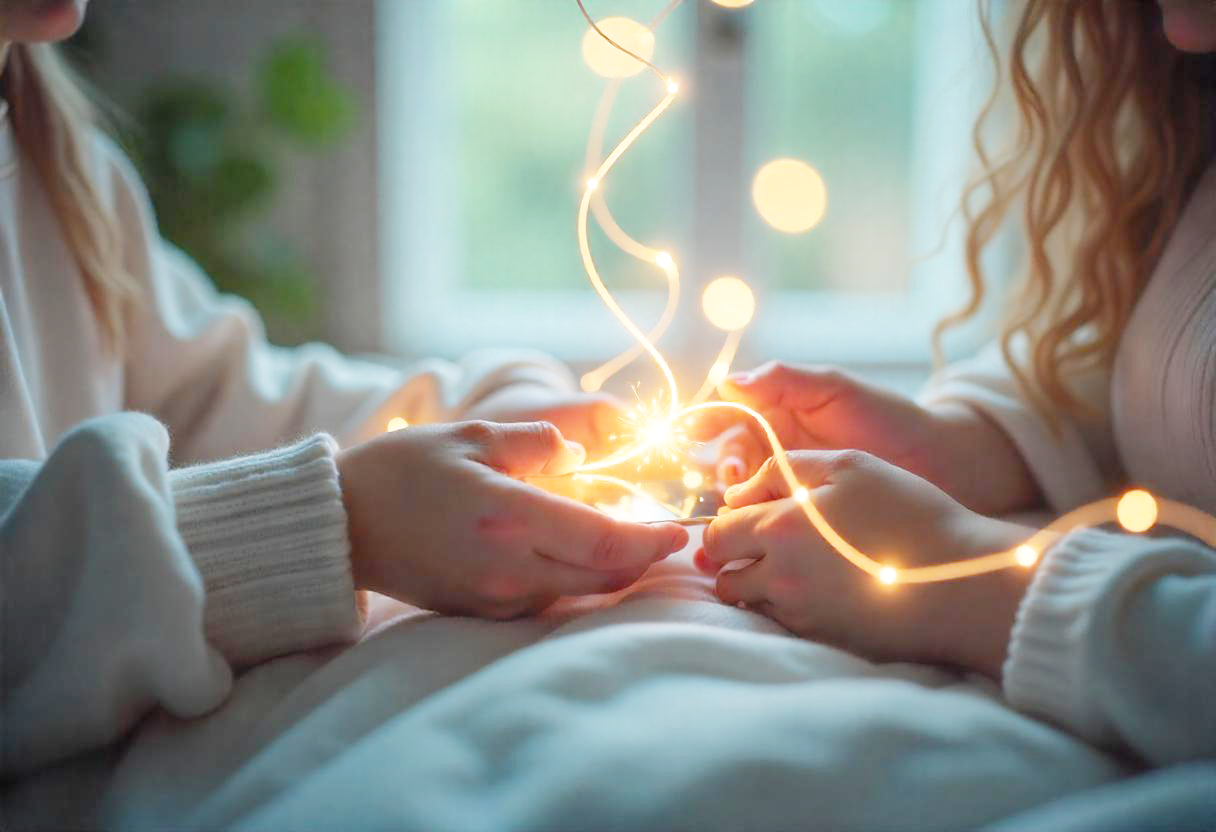
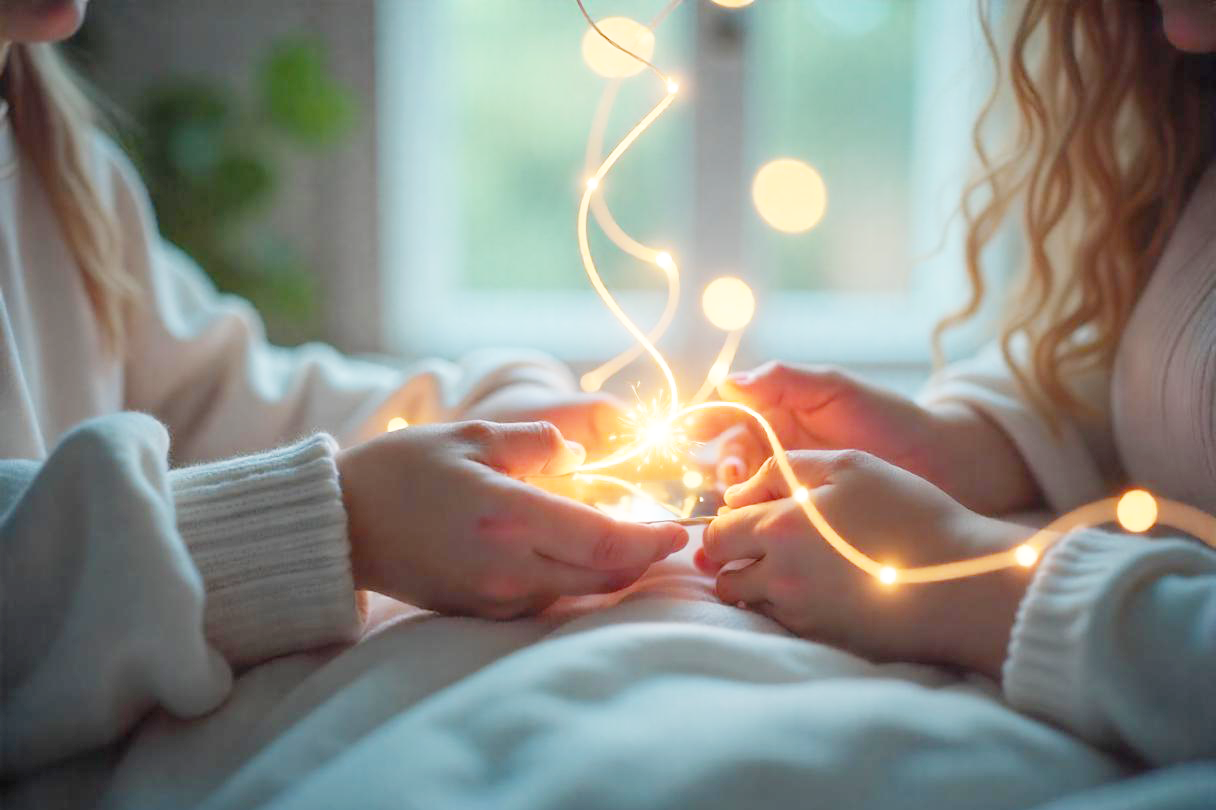
update northlight page's images

diff --git a/resources/views/northlight.blade.php b/resources/views/northlight.blade.php
@@ -144,110 +144,9 @@
 
     <div class="container">
         <div class="heading text-center top-padding">Innovation that Brings People Together</div>
-
-        {{--<div class="row d-none d-xl-flex">
-            <div class="col-4 col-md-2 p-0 d-flex justify-content-center">
-                <a class="highlight-wrap" data-target="display" href="/northlight#engineering-drawing-section">
-                    <img src="{{ asset('img/phone/icons/icons_size.svg') }}" alt="display" class="highlight-icon">
-                    <div class="highlight-text">5.45" LCD</div>
-                    <div class="highlight-text link">480 x 960</div>
-                </a>
-            </div>
-
-            <div class="col-4 col-md-2 p-0 d-flex justify-content-center">
-                <a class="highlight-wrap" data-target="camera" href="/northlight#engineering-drawing-section">
-                    <img src="{{ asset('img/phone/icons/icons_camera.svg') }}" alt="camera" class="highlight-icon">
-                    <div class="highlight-text">5MP Back</div>
-                    <div class="highlight-text link">2MP Front</div>
-                </a>
-            </div>
-
-            <div class="col-4 col-md-2 p-0 d-flex justify-content-center">
-                <a class="highlight-wrap" data-target="chip" href="/northlight#engineering-drawing-section">
-                    <img src="{{ asset('img/phone/icons/icons_memory.svg') }}" alt="chip" class="highlight-icon">
-                    <div class="highlight-text">Mediatek</div>
-                    <div class="highlight-text link">Helio A22</div>
-                </a>
-            </div>
-
-            <div class="col-4 col-md-2 p-0 d-flex justify-content-center">
-                <a class="highlight-wrap" data-target="sim-card" href="/northlight#engineering-drawing-section">
-                    <img src="{{ asset('img/phone/icons/icons_dualsim.svg') }}" alt="dual-sim" class="highlight-icon">
-                    <div class="highlight-text">Micro SIM</div>
-                    <div class="highlight-text link">& Nano SIM</div>
-                </a>
-            </div>
-
-            <div class="col-4 col-md-2 p-0 d-flex justify-content-center">
-                <a class="highlight-wrap" data-target="microSD" href="/northlight#engineering-drawing-section">
-                    <img src="{{ asset('img/phone/icons/icons_sd_card.svg') }}" alt="microSD Card" class="highlight-icon">
-                    <div class="highlight-text">microSD</div>
-                    <div class="highlight-text link">Up to 512GB</div>
-                </a>
-            </div>
-
-            <div class="col-4 col-md-2 p-0 d-flex justify-content-center">
-                <a class="highlight-wrap" data-target="battery" href="/northlight#engineering-drawing-section">
-                    <img src="{{ asset('img/phone/icons/icons_battery_swap.svg') }}" alt="battery" class="highlight-icon">
-                    <div class="highlight-text">Replaceable</div>
-                    <div class="highlight-text link">Battery</div>
-                </a>
-            </div>
-        </div>
-
-        <div class="row d-xl-none">
-            <div class="col-4 col-md-2 p-0 d-flex justify-content-center">
-                <a class="highlight-wrap" data-target="display-mobile" href="/northlight#engineering-drawing-section-mobile">
-                    <img src="{{ asset('img/phone/icons/icons_size.svg') }}" alt="display" class="highlight-icon">
-                    <div class="highlight-text">5.45" LCD</div>
-                    <div class="highlight-text link">480 x 960</div>
-                </a>
-            </div>
-
-            <div class="col-4 col-md-2 p-0 d-flex justify-content-center">
-                <a class="highlight-wrap" data-target="camera-mobile" href="/northlight#engineering-drawing-section-mobile">
-                    <img src="{{ asset('img/phone/icons/icons_camera.svg') }}" alt="camera" class="highlight-icon">
-                    <div class="highlight-text">5MP Back</div>
-                    <div class="highlight-text link">2MP Front</div>
-                </a>
-            </div>
-
-            <div class="col-4 col-md-2 p-0 d-flex justify-content-center">
-                <a class="highlight-wrap" data-target="chip-mobile" href="/northlight#engineering-drawing-section-mobile">
-                    <img src="{{ asset('img/phone/icons/icons_memory.svg') }}" alt="chip" class="highlight-icon">
-                    <div class="highlight-text">Mediatek</div>
-                    <div class="highlight-text link">Helio A22</div>
-                </a>
-            </div>
-
-            <div class="col-4 col-md-2 p-0 d-flex justify-content-center">
-                <a class="highlight-wrap" data-target="sim-card-mobile" href="/northlight#engineering-drawing-section-mobile">
-                    <img src="{{ asset('img/phone/icons/icons_dualsim.svg') }}" alt="dual-sim" class="highlight-icon">
-                    <div class="highlight-text">Micro SIM</div>
-                    <div class="highlight-text link">& Nano SIM</div>
-                </a>
-            </div>
-
-            <div class="col-4 col-md-2 p-0 d-flex justify-content-center">
-                <a class="highlight-wrap" data-target="microSD-mobile" href="/northlight#engineering-drawing-section-mobile">
-                    <img src="{{ asset('img/phone/icons/icons_sd_card.svg') }}" alt="microSD Card" class="highlight-icon">
-                    <div class="highlight-text">microSD</div>
-                    <div class="highlight-text link">Up to 512GB</div>
-                </a>
-            </div>
-
-            <div class="col-4 col-md-2 p-0 d-flex justify-content-center">
-                <a class="highlight-wrap" data-target="battery-mobile" href="/northlight#engineering-drawing-section-mobile">
-                    <img src="{{ asset('img/phone/icons/icons_battery_swap.svg') }}" alt="battery" class="highlight-icon">
-                    <div class="highlight-text">Replaceable</div>
-                    <div class="highlight-text link">Battery</div>
-                </a>
-            </div>
-        </div> --}}
-
         <div class="row top-padding bottom-padding-sm gx-lg-5 gy-lg-0 gy-4">
             <div class="col-lg-6 d-flex align-items-center">
-                <img src="{{ asset('img/phone/phone_photo_1.png') }}" alt="" class="rounded-img">
+                <img src="{{ asset('img/phone/phone_photo_1.jpg') }}" alt="" class="rounded-img">
             </div>
             <div class="col-lg-6 d-flex flex-column justify-content-center">
                 <div class="about-title pb-3">Designed to Connect, Not Compete</div>
@@ -263,7 +162,7 @@
                 <p>Because at INOVA, we don’t engineer phones. We craft tools that let you focus on what truly matters: the people on the other side of the screen.</p>
             </div>
             <div class="col-lg-6 d-flex align-items-center order-0 order-lg-1">
-                <img src="{{ asset('img/phone/phone_photo_2.png') }}" alt="" class="rounded-img">
+                <img src="{{ asset('img/phone/phone_photo_2.jpg') }}" alt="" class="rounded-img">
             </div>
         </div>
     </div>
@@ -928,7 +827,7 @@
             <div class="col-lg-6">
                 <div class="slider">
                     <img src="{{ asset('img/phone/phone_photo_3.png') }}" alt="young users" class="rounded-img">
-                    <img src="{{ asset('img/phone/phone_photo_4.png') }}" alt="business users" class="rounded-img">
+                    <img src="{{ asset('img/phone/phone_photo_4.jpg') }}" alt="business users" class="rounded-img">
                     <img src="{{ asset('img/phone/phone_photo_5.png') }}" alt="senior users" class="rounded-img">
                 </div>
             </div>

diff --git a/resources/views/admin/index.blade.php b/resources/views/admin/index.blade.php
@@ -29,7 +29,7 @@
                                 </a>
                             </td>
                             <td>{{ ucfirst($article->category->name) }}</td>
-                            <td>{{ ucfirst($article->device->name ?? '') }}</td>
+                            <td>{{ ucfirst($article->device->name ?? 'N/A') }}</td>
                             <td>{{ $article->created_at->format('Y-m-d') }}</td>
                             <td>
                                 <span class="badge {{ $article->is_published ? 'bg-success' : 'bg-danger' }}">
